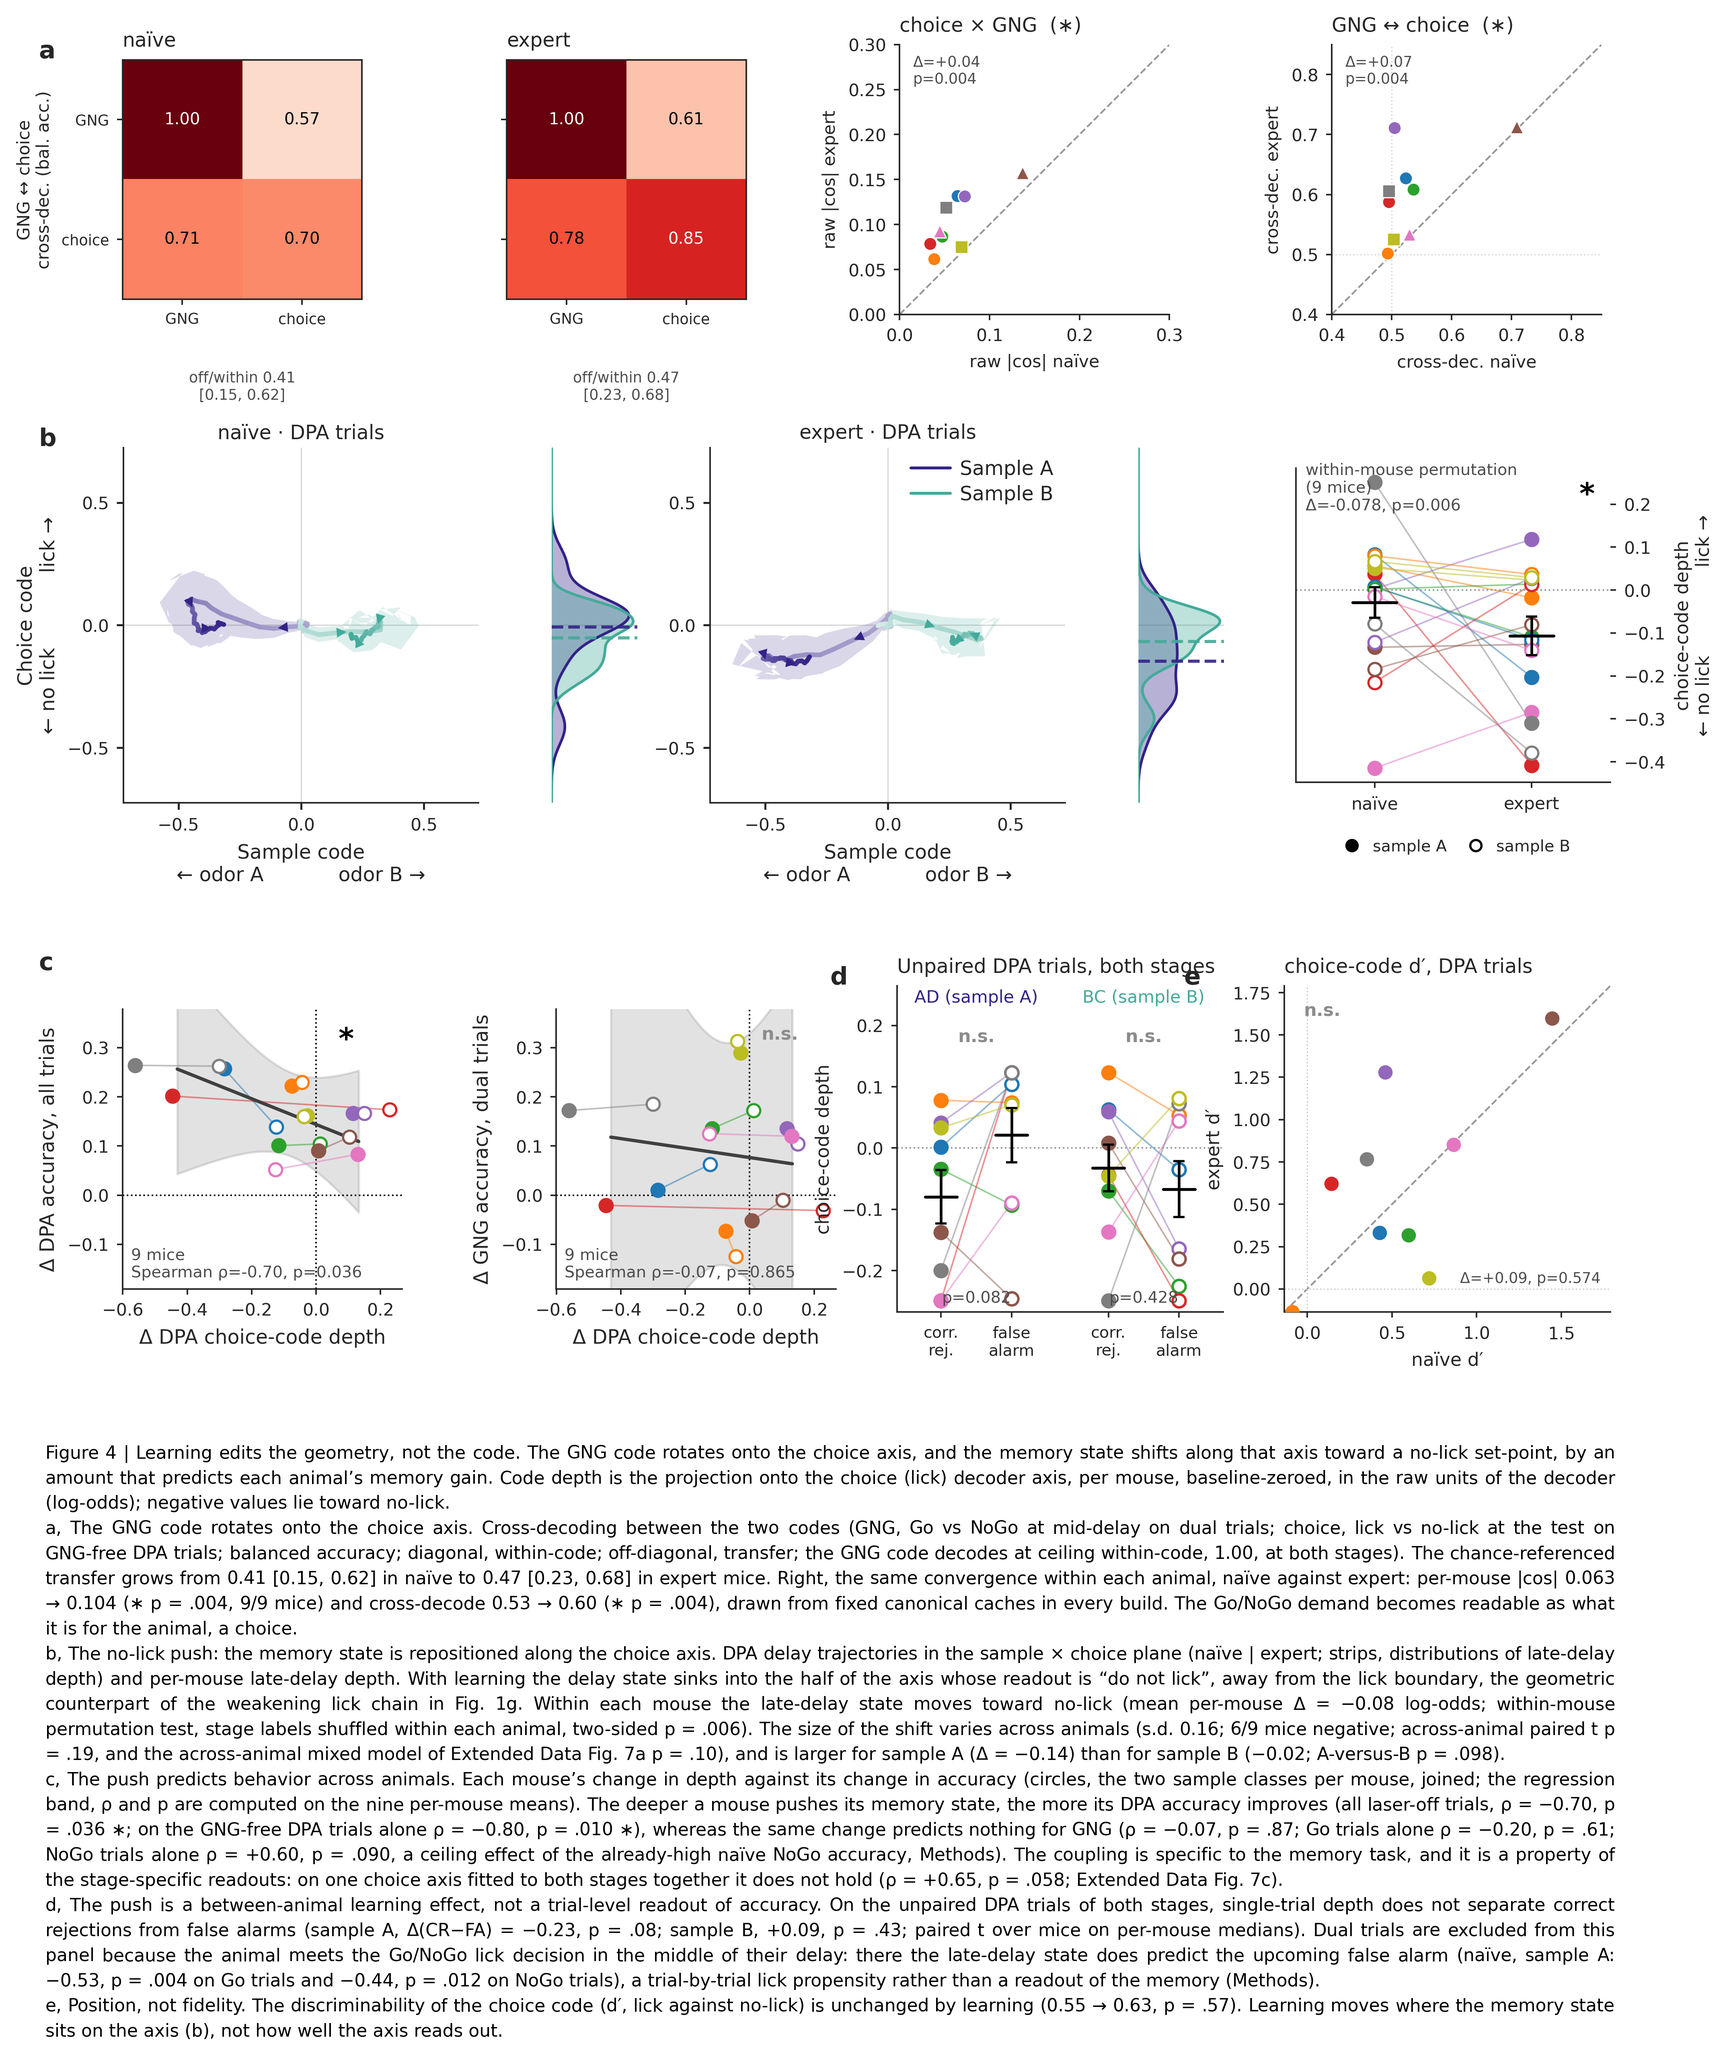
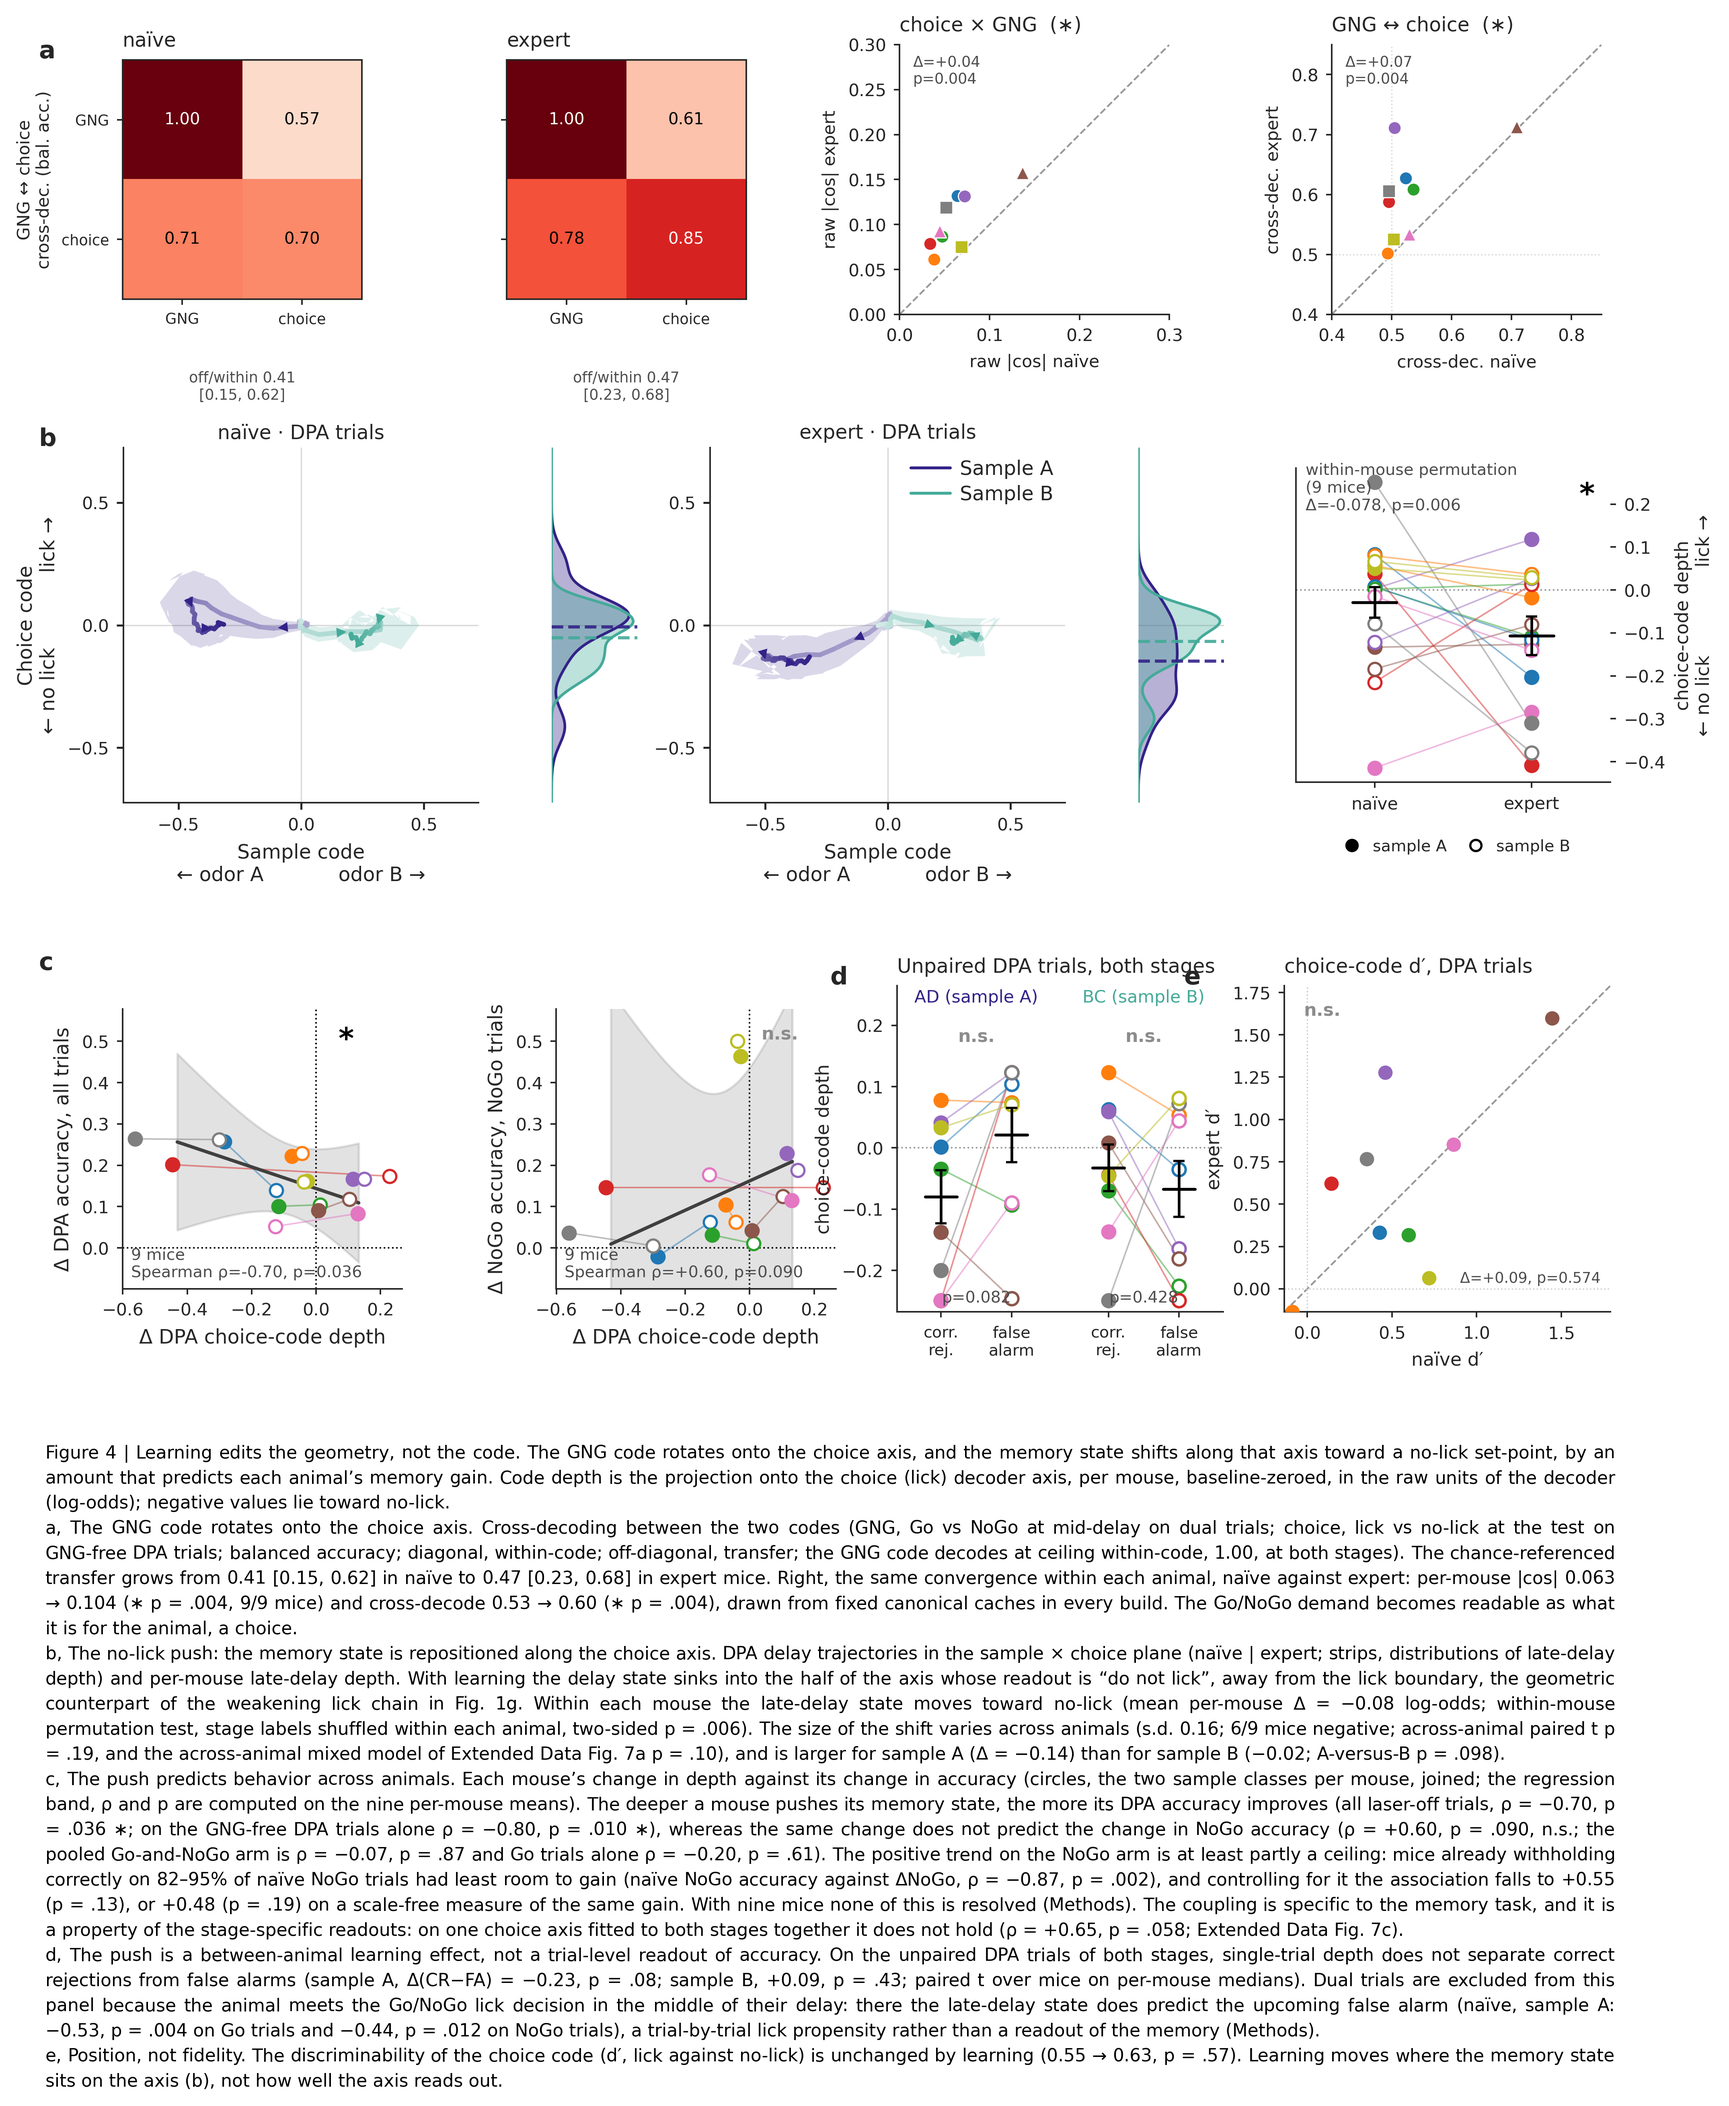
Fig 4c right arm reads NoGo accuracy; stale ceiling numbers in Methods corrected
Leon asked for the GNG arm on delta NoGo accuracy. It is rho +0.60, p .090,
against -0.07, p .87 for the pooled Go-and-NoGo arm it replaces. --gngperf
restores the published arm, --goperf draws Go trials only.

This changes what the panel argues. The right arm was the specificity control,
showing the push predicts the memory gain and nothing for the Go/NoGo task. On
NoGo accuracy it is a positive trend, so the panel no longer reads as a clean
null even though it is marked n.s. Not published to the shared pages pending
Leon's look; the private preview artifact carries it.

Separately, the Methods sentence on the NoGo ceiling still held numbers from the
evoked-s.d. unit retired in v12.29, and disagreed with the Results body on the
same statistic. Recomputed on the current raw log-odds unit:

  naive NoGo accuracy vs NoGo gain            rho -0.87  p .002
  push vs NoGo gain, ceiling controlled       rho +0.55  p .13   (Methods said +0.27, p .49)
  push vs NoGo gain, relative-gain or logit   rho +0.48  p .19
  depth vs NoGo accuracy, naive / expert      rho +0.24 p .53 / +0.45 p .22

The ceiling is real and strong but accounts for part of the trend rather than all
of it, so the wording no longer claims it explains the whole thing.

Claude-Session: https://claude.ai/code/session_01PzGzWMKHPqqyp4poHedntF

diff --git a/overlaps/fig_overlaps_main_native.py b/overlaps/fig_overlaps_main_native.py
@@ -258,7 +258,7 @@ if __name__ == '__main__':
     _pl = _MP.PERF_LABEL
     C_specs = [(delta_dpa_perf_sample, f'Δ DPA accuracy, {_pl}', 'Δ depth vs Δ DPA accuracy',
                 _panelC_coupling(delta_dpa_perf_sample)),
-               (delta_gng_perf_sample, 'Δ GNG accuracy, dual trials', 'Δ depth vs Δ GNG accuracy',
+               (delta_gng_perf_sample, _MP.GNG_LABEL, 'Δ depth vs Δ GNG accuracy',
                 _panelC_coupling(delta_gng_perf_sample))]
     _allyC = np.array([d[(m, c)] for d, _, _, _ in C_specs for m in ALL_MICE for c in (0, 1)], float)
     _allyC = _allyC[~np.isnan(_allyC)]
@@ -389,7 +389,7 @@ if __name__ == '__main__':
         'ρ and p are computed on the nine per-mouse means). The deeper a mouse pushes its memory '
         'state, the more its DPA accuracy improves (all laser-off trials, ρ = −0.70, p = .036 ∗; on the '
         'GNG-free DPA trials alone ρ = −0.80, p = .010 ∗), whereas the same change '
-        'predicts nothing for GNG (ρ = −0.07, p = .87; Go trials alone ρ = −0.20, p = .61; NoGo trials alone ρ = +0.60, p = .090, a ceiling effect of the already-high naïve NoGo accuracy, Methods). The coupling is specific to the memory task, and it is a property of the stage-specific readouts: on one choice axis fitted to both stages together it does not hold (ρ = +0.65, p = .058; Extended Data Fig. 7c).',
+        'does not predict the change in NoGo accuracy (ρ = +0.60, p = .090, n.s.; the pooled Go-and-NoGo arm is ρ = −0.07, p = .87 and Go trials alone ρ = −0.20, p = .61). The positive trend on the NoGo arm is at least partly a ceiling: mice already withholding correctly on 82–95% of naïve NoGo trials had least room to gain (naïve NoGo accuracy against ΔNoGo, ρ = −0.87, p = .002), and controlling for it the association falls to +0.55 (p = .13), or +0.48 (p = .19) on a scale-free measure of the same gain. With nine mice none of this is resolved (Methods). The coupling is specific to the memory task, and it is a property of the stage-specific readouts: on one choice axis fitted to both stages together it does not hold (ρ = +0.65, p = .058; Extended Data Fig. 7c).',
         'd, The push is a between-animal learning effect, not a trial-level readout of accuracy. On the '
         'unpaired DPA trials of both stages, single-trial depth does not separate correct rejections from '
         'false alarms (sample A, Δ(CR−FA) = −0.23, p = .08; sample B, +0.09, p = .43; paired t over mice on '

diff --git a/overlaps/main_panels.py b/overlaps/main_panels.py
@@ -389,7 +389,18 @@ if PERFSET != 'all':
     FILE_SUF += f'_{PERFSET.lower()}perf'
 _PERF_MASK = {'all': y.tasks.notna(), 'DPA': y.tasks == 'DPA', 'dual': y.tasks != 'DPA'}[PERFSET]
 delta_dpa_perf_sample = _perf_delta_by_sample('performance', _PERF_MASK)
-delta_gng_perf_sample = _perf_delta_by_sample('odr_perf',    y.tasks != 'DPA')
+# 2026-09-21 (Leon): panel c's right arm reads NoGo accuracy instead of the pooled Go+NoGo one.
+# --gngperf = the pooled arm published through 2026-09-18 (rho -0.07, p .87), --goperf = Go trials only
+# (-0.20, p .61). CAVEAT the legend must carry: the NoGo arm is rho +0.60, p .090, and exp_push_nogo_ceiling.py
+# shows it is a CEILING effect of the already-high naive NoGo accuracy (naive NoGo accuracy vs dNoGo
+# rho -0.87 p .002; partial rank correlation of ddepth with dNoGo controlling for it +0.27, p .49).
+GNGSET = 'gng' if '--gngperf' in sys.argv[1:] else 'go' if '--goperf' in sys.argv[1:] else 'nogo'
+GNG_LABEL = {'gng': 'Δ GNG accuracy, dual trials', 'go': 'Δ Go accuracy, Go trials',
+             'nogo': 'Δ NoGo accuracy, NoGo trials'}[GNGSET]
+if GNGSET != 'nogo':
+    FILE_SUF += f'_{GNGSET}perf'
+_GNG_MASK = {'gng': y.tasks != 'DPA', 'go': y.tasks == 'DualGo', 'nogo': y.tasks == 'DualNoGo'}[GNGSET]
+delta_gng_perf_sample = _perf_delta_by_sample('odr_perf',    _GNG_MASK)
 
 
 def _panelC_coupling(perf_dict):
